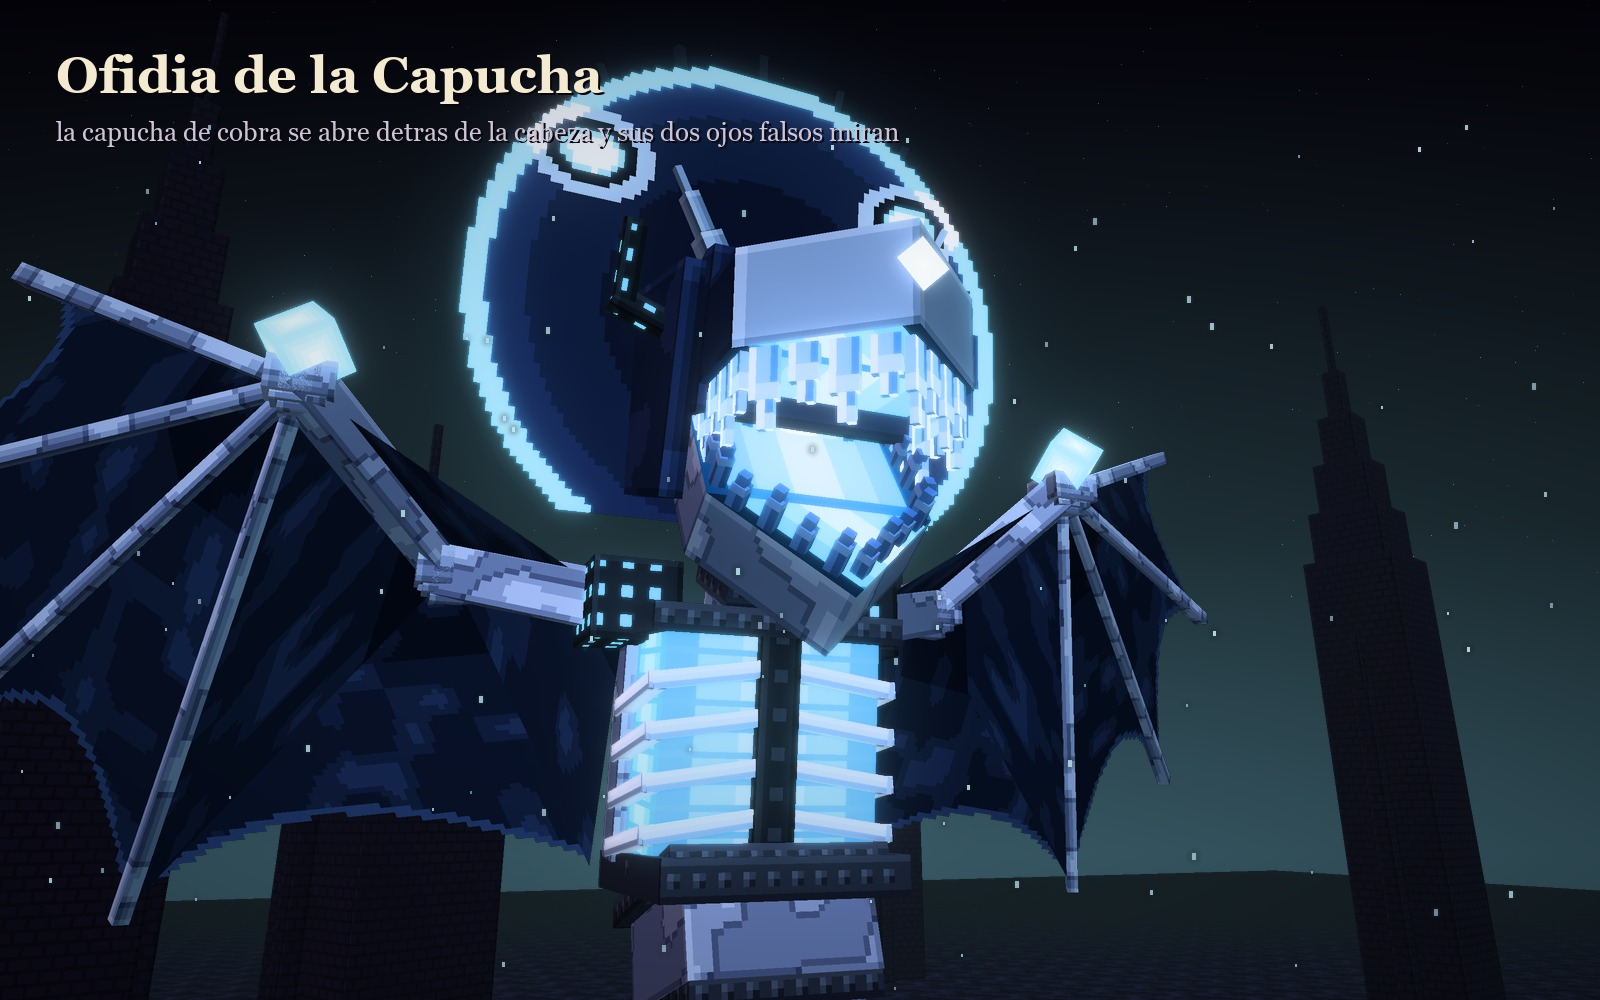
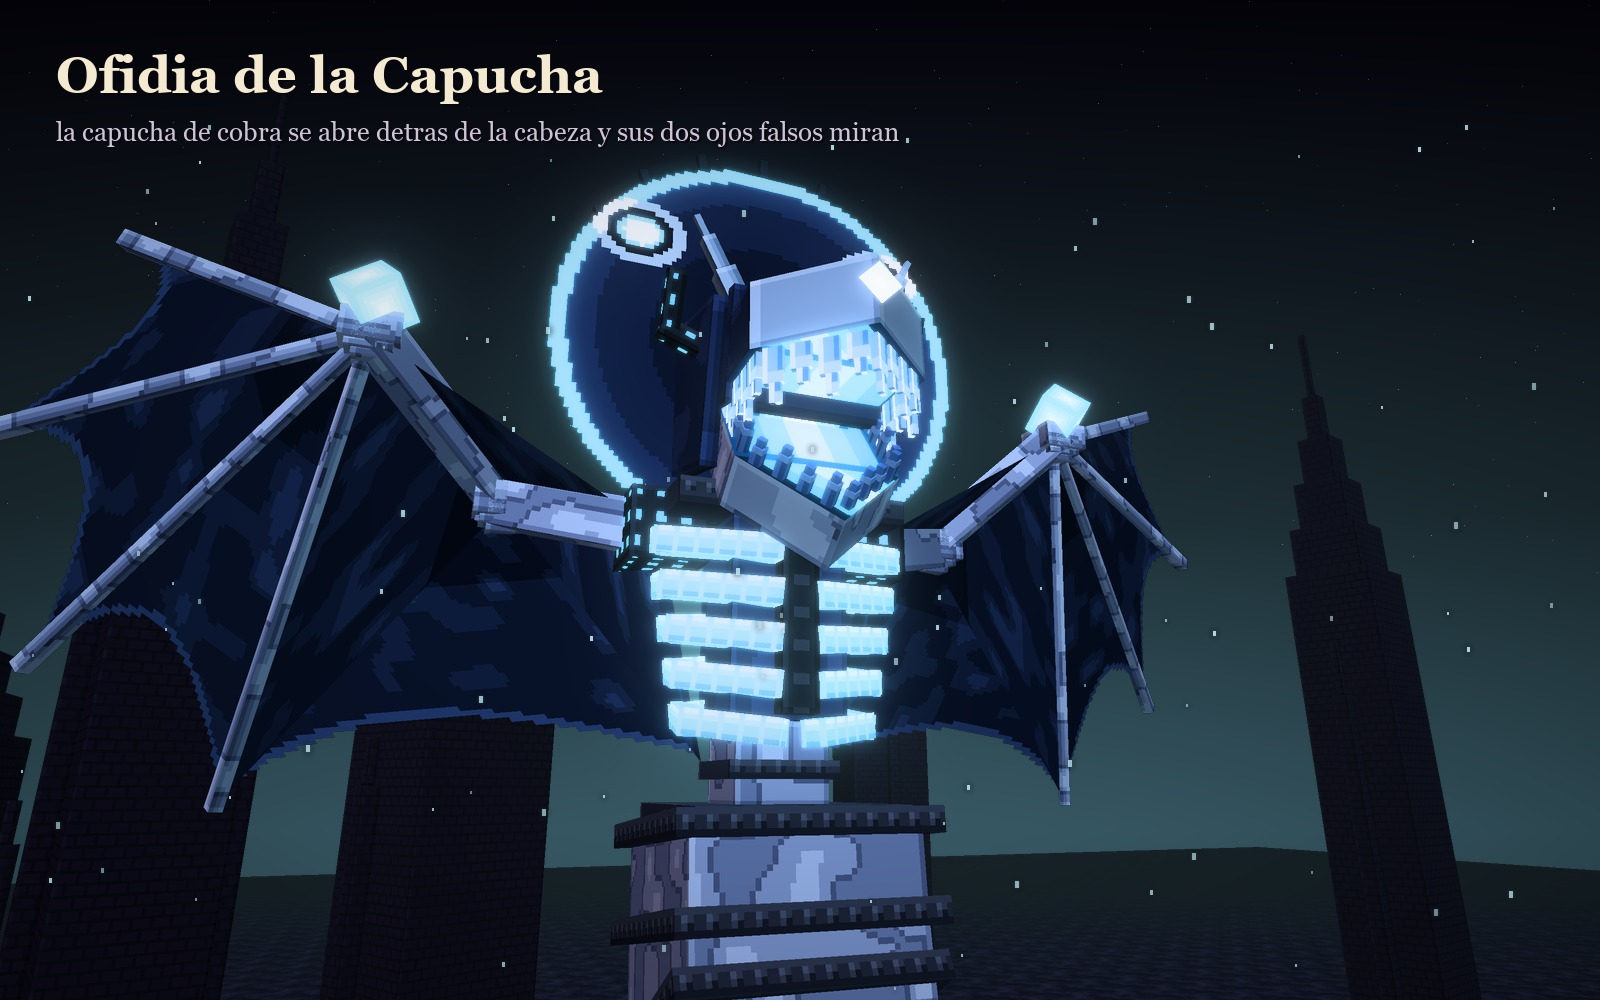
Ofidia sheet: body proportions and a ribs-only chest
Rebuilt Ofidia's body to the proportions measured on the side flight
shot Juan sent. From bottom to top: the red fin, the thin tail with
its forward knee, the hips (two fat marble drums, the widest part),
the belt, a narrow waist and, higher up, the chest, with the head
sitting right on top with almost no neck.

The chest now shows only ribs: five pairs of thick glowing pink ribs
with a white top edge and dark gaps between them, opening wider toward
the top, with the spine behind, a dark sternum in front and a dark
interior instead of the filled pink box. The side lures hang down to
the chest, the head is a bit smaller and the wings start at the new
shoulders.

diff --git a/materiales/generadores/ofidia_modelo.py b/materiales/generadores/ofidia_modelo.py
@@ -13,8 +13,12 @@ bien su portada».
       cinturones granates con remaches, que cuelga del cinturon de la cintura, hace una ese
       suave y acaba en una aleta roja de hojas en abanico;
     - la cintura: un cinturon con remaches;
-    - el torso: un costillar abierto que brilla rosa por dentro, con costillas blancas y la
-      columna oscura de vertebras grises por delante;
+    - de abajo arriba (medido en la imagen de Juan): la aleta roja (16 %), la cola fina con la
+      rodilla hacia delante (22 %), las caderas, dos tambores gordos mas anchos que el costillar
+      (18 %), el cinturon, la cintura estrecha (6 %) y, mas arriba, el costillar (17 %), que es
+      solo costillas: cinco pares de barras rosas gruesas que brillan, con el canto blanco, que se
+      abren hacia arriba, con huecos oscuros entre ellas, la columna detras y el esternon delante;
+      encima, sin apenas cuello, la cabeza (18 %);
     - dos alas de murcielago: el brazo (codo hacia atras, muneca hacia delante con un cubo rosa
       encendido por pulgar) y cuatro dedos largos en abanico, con la membrana azul noche tendida
       entre ellos y el borde libre en arcos;
@@ -278,14 +282,19 @@ def pintores(V):
     reg('pecho', pecho)
 
     def costilla(tw, th, cara, s):
-        idx = np.full((th, tw), 3)
+        """Una costilla: una barra del neon con el canto de arriba casi blanco y la sombra abajo;
+        brilla entera."""
+        c_n, c_m, c_h = nm._hex(nuc), nm._hex(neo), nm._hex(hon)
+        t = np.zeros((th, tw, 4), np.uint8)
+        t[..., :3] = c_m
+        t[..., 3] = 255
         if th >= 3:
-            idx[0, :] = 4
-            idx[-1, :] = 1
-        if tw >= 3 and cara in ('der', 'izq'):
-            idx[:, -1] = 2
-        tex = _imagen(idx, V['costilla'])
-        return tex, _emis(tex, idx >= 3, 70)
+            t[0, :, :3] = qm._mezcla(c_m, c_n, 0.75)
+            t[1, :, :3] = qm._mezcla(c_m, c_n, 0.4)
+            t[-1, :, :3] = qm._mezcla(c_h, c_m, 0.5)
+        if tw >= 4:
+            t[:, ::4, :3] = qm._mezcla(c_m, c_n, 0.25)
+        return t, _emis(t, np.ones((th, tw), bool), 215)
     reg('costilla', costilla)
 
     def columna(tw, th, cara, s):
@@ -463,21 +472,28 @@ def _jirones(out, a, b, largo, P, semilla=0, vuelo=(0.0, 0.0, 0.0)):
 # ----------------------------------------------------------------------
 #  La cola: tambores de marmol con su cinturon, enroscada en el suelo y alzandose
 # ----------------------------------------------------------------------
-COLA = [(0.0, 12.0, 0.0), (0.0, 9.4, 0.7), (0.0, 6.6, 0.6), (0.0, 4.6, -0.4), (0.0, 3.3, -1.7)]
+COLA = [(0.0, 14.1, 0.0), (0.0, 11.9, 0.2), (0.0, 9.7, 0.6), (0.0, 7.7, 1.7), (0.0, 5.8, 1.3), (0.0, 4.5, -0.1), (0.0, 3.7, -1.3)]
 
 
 def cola(out, V, P):
-    """La cola: tambores de marmol con su cinturon que cuelgan del cinturon de la cintura,
-    hacen una ese suave y acaban en la aleta roja."""
+    """La cola: cuelga del cinturon. Arriba, las caderas: dos tambores gordos, mas anchos que el
+    costillar; luego se estrecha de golpe, hace la rodilla hacia delante y baja fina hasta la
+    aleta roja. Cada tambor lleva su cinturon con remaches."""
     pts = sm._por_longitud(COLA, 1.9)
     marcos = sm._marcos(pts, (0, 0, 1))
-    n = len(marcos)
+    acum = 0.0
     for i, M in enumerate(marcos):
-        t = i / max(n - 1, 1)
-        r = 2.0 - 1.2 * t
         L = float(np.linalg.norm(pts[i + 1] - pts[i]))
+        m = acum + L / 2
+        if m < 5.0:
+            r = 2.65
+        elif m < 6.6:
+            r = 2.65 + (1.0 - 2.65) * (m - 5.0) / 1.6
+        else:
+            r = max(0.62, 1.0 - 0.06 * (m - 6.6))
+        acum += L
         cubo(out, M, -r, -r, -0.15, 2 * r, 2 * r, L + 0.3, P['marmol'], semilla=i)
-        rb = r * 1.16
+        rb = r * 1.14
         cubo(out, M @ vr.T(0, 0, -0.28), -rb, -rb, 0, 2 * rb, 2 * rb, 0.56, P['cinto'], semilla=i)
         if V['clave'] == 'C' and i % 2 == 1:                                    # cadenas que cruzan el tambor
             for s in (1, -1):
@@ -501,6 +517,7 @@ def aleta(out, p, t, P):
         d = d / np.linalg.norm(d)
         Mb = em.marco(p, d, up=(1, 0, 0))
         w = 0.78 - 0.06 * abs(phi) / 20
+        largo *= 1.2
         cubo(out, Mb, -w / 2, -0.09, 0, w, 0.18, largo * 0.72, P['aleta'], semilla=96 + j)
         cubo(out, Mb, -w * 0.3, -0.07, largo * 0.72, w * 0.6, 0.14, largo * 0.28, P['aleta'], semilla=97 + j)
 
@@ -513,36 +530,43 @@ def ofidia(variante='O'):
     P = pintores(V)
     k = V['clave']
     out = []
-    cubo(out, vr.T(0, 10.3, 0.0), -2.6, -0.4, -2.6, 5.2, 0.8, 5.2, P['cinto'], semilla=1)         # el cinturon de la cintura
+    # de abajo arriba: la cola (con las caderas anchas arriba), el cinturon, la cintura estrecha
+    # (solo la columna) y, mas arriba, el costillar de solo costillas
+    cola(out, V, P)
+    cubo(out, vr.T(0, 14.3, 0.0), -2.5, -0.35, -2.5, 5.0, 0.7, 5.0, P['cinto'], semilla=1)        # el cinturon
+    cubo(out, vr.T(0, 14.6, -0.1), -1.15, 0, -1.05, 2.3, 1.9, 2.1, P['marmol'], semilla=2)        # la cintura, estrecha
+    cubo(out, vr.T(0, 15.2, -0.1), -1.35, 0, -1.25, 2.7, 0.42, 2.5, P['cinto'], semilla=3)        # su anillo
+    cubo(out, vr.T(0, 14.6, -1.25), -0.45, 0, -0.3, 0.9, 1.9, 0.6, P['columna'], semilla=2)        # la columna, detras
 
-    # el torso: el costillar abierto, que brilla por dentro
-    Mt = vr.T(0, 12.9, 0.2) @ vr.Rx(6 * D) @ np.diag([1.1, 1.05, 1.1, 1.0])
-    cubo(out, Mt, -2.2, -2.3, -1.1, 4.4, 4.6, 2.3, None, caras={'frente': P['pecho'], 'der': P['pecho'], 'izq': P['pecho'],
-                                                                'arriba': P['pecho'], 'abajo': P['pecho']}, semilla=2)
-    cubo(out, Mt, -2.45, -2.4, -1.75, 4.9, 4.8, 0.85, P['marmol'], semilla=3)                     # la espalda
-    cubo(out, Mt, -0.4, -2.45, 1.0, 0.8, 4.9, 0.5, P['columna'], semilla=4)                       # la columna
-    for j, y in enumerate((1.55, 0.6, -0.35, -1.3)):
-        for s in (1, -1):
-            p0 = punto(Mt, (s * 0.35, y, 1.25))
-            p1 = punto(Mt, (s * 2.35, y - 0.3, 1.25))
-            p2 = punto(Mt, (s * 2.35, y - 0.85, -1.2))
-            viga(out, p0, p1, 0.36, 0.36, P['costilla'], extra=0.12, semilla=5 + j)
-            viga(out, p1, p2, 0.36, 0.36, P['costilla'], extra=0.12, semilla=9 + j)
-    cubo(out, Mt, -2.55, 2.2, -1.75, 5.1, 0.55, 3.3, P['cinto'], semilla=13)                      # el cuello del costillar
+    # el costillar: la columna detras, el esternon delante y cinco pares de costillas gruesas que
+    # se abren hacia arriba (estrecho abajo, ancho arriba), con huecos oscuros entre ellas
+    Mt = vr.T(0, 18.9, 0.0)
+    cubo(out, Mt, -0.55, -2.6, -1.85, 1.1, 5.3, 0.95, P['columna'], semilla=4)                    # la columna
+    cubo(out, Mt, -0.45, -2.3, 1.55, 0.9, 4.8, 0.55, P['columna'], semilla=5)                     # el esternon
+    cubo(out, Mt, -1.45, -2.4, -1.2, 2.9, 4.8, 2.6, P['capucha'], semilla=6)                      # lo de dentro, oscuro
+    for j, y in enumerate((-2.1, -1.05, 0.0, 1.05, 2.1)):
+        a = 1.95 + 0.2 * j                                                                      # media anchura de la costilla
+        for sx in (1, -1):
+            p0 = punto(Mt, (sx * 0.5, y + 0.15, -1.45))
+            p1 = punto(Mt, (sx * a, y - 0.1, -0.8))
+            p2 = punto(Mt, (sx * (a + 0.2), y - 0.35, 0.6))
+            p3 = punto(Mt, (sx * 0.5, y - 0.6, 1.8))
+            for q, (pa, pb) in enumerate(((p0, p1), (p1, p2), (p2, p3))):
+                viga(out, pa, pb, 0.6, 0.6, P['costilla'], extra=0.2, semilla=7 + j + q)
+    cubo(out, Mt, -2.9, 2.45, -1.7, 5.8, 0.6, 3.5, P['cinto'], semilla=13)                        # los hombros
     if k == 'C':                                                                                  # barrotes: el pecho es una celda
-        for x in (-1.6, -0.95, 0.95, 1.6):
-            viga(out, punto(Mt, (x, 2.2, 1.55)), punto(Mt, (x, -2.4, 1.55)), 0.24, 0.24, P['oxido'], semilla=14)
-        for y in (1.1, -1.0):
-            viga(out, punto(Mt, (-2.3, y, 1.6)), punto(Mt, (2.3, y, 1.6)), 0.22, 0.22, P['oxido'], semilla=15)
+        for x in (-1.6, -0.85, 0.85, 1.6):
+            viga(out, punto(Mt, (x, 2.4, 2.25)), punto(Mt, (x, -2.6, 2.25)), 0.24, 0.24, P['oxido'], semilla=14)
+        for y in (1.1, -1.2):
+            viga(out, punto(Mt, (-2.4, y, 2.3)), punto(Mt, (2.4, y, 2.3)), 0.22, 0.22, P['oxido'], semilla=15)
 
-    # las dos alas, abiertas a los lados
+    # las dos alas, abiertas a los lados, desde los hombros
     for s in (1, -1):
-        ala(out, s, V, P)
+        ala(out, s, V, P, dy=5.2)
 
-    # el cuello y la cabeza
-    viga(out, np.array((0, 15.2, 0.3)), np.array((0, 18.0, 1.6)), 2.0, 2.0, P['marmol'], extra=0.3, semilla=40)
-    cubo(out, em.marco(np.array((0, 16.4, 0.85)), (0, 2.8, 1.3)), -1.2, -1.2, -0.3, 2.4, 2.4, 0.6, P['cinto'], semilla=41)
-    Mh = em.marco(np.array((0.0, 20.0, 3.0)), (0.0, -0.3, 1.0)) @ np.diag([1.25, 1.25, 1.25, 1.0])
+    # el cuello, corto, y la cabeza justo encima del costillar
+    viga(out, np.array((0, 21.5, 0.0)), np.array((0, 22.9, 0.9)), 1.8, 1.8, P['marmol'], extra=0.3, semilla=40)
+    Mh = em.marco(np.array((0.0, 24.2, 2.0)), (0.0, -0.2, 1.0)) @ np.diag([1.05, 1.05, 1.05, 1.0])
     cabeza(out, Mh, V, P)
     if k == 'O':
         _corona_original(out, Mh, P)
@@ -552,11 +576,7 @@ def ofidia(variante='O'):
         _corona_faroles(out, Mh, P)
     else:
         _corona_encadenada(out, Mh, P)
-    # flota: todo lo de arriba sube y la cola cuelga hasta la aleta, sin tocar el suelo
-    sube = vr.T(0, 2.0, 0)
-    out = qm.transformar(out, sube)
-    cola(out, V, P)
-    return out, {'cabeza': sube @ Mh}
+    return out, {'cabeza': Mh}
 
 
 def _pano(out, raiz, a, b, pintor, semilla=0):
@@ -565,18 +585,19 @@ def _pano(out, raiz, a, b, pintor, semilla=0):
     lamina(out, (raiz, raiz, b, a), pintor, float(np.linalg.norm(b - a)), float(np.linalg.norm((a + b) / 2 - raiz)), semilla)
 
 
-def ala(out, s, V, P):
+def ala(out, s, V, P, dy=0.0):
     """Un ala de murcielago: el brazo (hombro, codo hacia atras y muneca hacia delante, con el
     cubo encendido por pulgar) y cuatro dedos largos que se abren en abanico desde la muneca; la
     membrana va tendida entre los dedos, con el borde libre en arcos, y del ultimo dedo baja
     hasta el costado."""
     k = V['clave']
-    hombro = np.array((s * 2.7, 16.0, -0.8))
-    codo = np.array((s * 6.4, 17.0, -3.2))
-    muneca = np.array((s * 10.0, 20.4, -1.2))
-    dedos = [np.array((s * 16.0, 23.0, -3.6)), np.array((s * 18.6, 18.0, -5.2)), np.array((s * 16.8, 12.6, -5.8)),
-             np.array((s * 12.2, 9.4, -5.0))]
-    costado = np.array((s * 3.0, 10.4, -1.8))
+    sube = np.array((0.0, dy, 0.0))
+    hombro = np.array((s * 2.7, 16.0, -0.8)) + sube
+    codo = np.array((s * 6.4, 17.0, -3.2)) + sube
+    muneca = np.array((s * 10.0, 20.4, -1.2)) + sube
+    dedos = [np.array((s * 16.0, 23.0, -3.6)) + sube, np.array((s * 18.6, 18.0, -5.2)) + sube,
+             np.array((s * 16.8, 12.6, -5.8)) + sube, np.array((s * 12.2, 9.4, -5.0)) + sube]
+    costado = np.array((s * 1.4, 15.6, -1.0))
     cubo(out, vr.T(*hombro), -1.0, -0.9, -1.1, 2.0, 1.8, 2.2, P['gancho'], semilla=20)            # el hombro, con remaches
     viga(out, hombro, codo, 1.35, 1.3, P['marmol'], extra=0.3, semilla=21)
     viga(out, codo, muneca, 1.1, 1.05, P['marmol'], extra=0.28, semilla=22)
@@ -755,7 +776,7 @@ def _cebos(out, Mh, P, tope, final=None):
                     afina=0.06)]
     for s in (1, -1):
         base = punto(Mh, (s * 2.1, 1.1, -1.4))
-        puntas.append(_ruta(out, base, ((s * 1.3, 0.5, -0.2), (s * 0.5, 0.1, -2.4), (s * 0.2, -1.8, -0.4)), Mh, 0.36, P['vara'],
+        puntas.append(_ruta(out, base, ((s * 1.5, 0.5, -0.2), (s * 0.7, 0.1, -1.6), (s * 0.15, -6.4, 0.4)), Mh, 0.36, P['vara'],
                             semilla=66 + (s > 0) * 3, afina=0.06))
     for j, p in enumerate(puntas):
         lado = 1.45 if j == 0 else 1.25
@@ -814,7 +835,7 @@ def _corona_faroles(out, Mh, P):
     # los cebos de los lados tambien son faroles
     for s in (1, -1):
         base = punto(Mh, (s * 2.1, 1.1, -1.4))
-        p = _ruta(out, base, ((s * 1.3, 0.5, -0.2), (s * 0.5, 0.1, -2.4), (s * 0.2, -1.4, -0.4)), Mh, 0.36, P['vara'],
+        p = _ruta(out, base, ((s * 1.5, 0.5, -0.2), (s * 0.7, 0.1, -1.6), (s * 0.15, -6.0, 0.4)), Mh, 0.36, P['vara'],
                   semilla=98, afina=0.06)
         farol(out, p + np.array((0, -0.2, 0)), P, semilla=99, g=0.6)
 

diff --git a/materiales/generadores/ofidia_escenas.py b/materiales/generadores/ofidia_escenas.py
@@ -171,7 +171,7 @@ def guardar(img, nombre):
 
 NOMBRE = {'O': 'Ofidia, la original (estudio)', 'A': 'Ofidia de la Capucha', 'B': 'Ofidia de los Faroles', 'C': 'Ofidia Encadenada'}
 SUB_HEROE = {
-    'O': 'flota: costillar abierto, alas de murcielago, boca de dos mitades y la cola hasta la aleta roja',
+    'O': 'flota: cola fina hasta la aleta, caderas, cintura estrecha, costillar de solo costillas y alas de murcielago',
     'A': 'el mismo cuerpo; la capucha se abre en una capucha de cobra con dos ojos falsos; azul hielo',
     'B': 'el mismo cuerpo; los cebos son faroles con almas: en la cabeza, a los lados y en las alas',
     'C': 'el mismo cuerpo, encadenado: grilletes en las alas, barrotes en el pecho, bozal roto y cuernos',
@@ -182,8 +182,8 @@ SUB_CABEZA = {
     'B': 'de cada varilla cuelga un farol con un alma dentro',
     'C': 'el bozal se le ha roto por delante y la mandibula ha quedado libre',
 }
-CAMARA_HEROE = ((7.0, 4.0, 30.0), (0.0, 15.2, 0.0), 62)
-CAMARA_CABEZA = ((-8.0, 13.5, 22.0), (0.0, 19.8, 3.0), 52)
+CAMARA_HEROE = ((7.0, 4.5, 33.0), (0.0, 15.6, 0.0), 62)
+CAMARA_CABEZA = ((-8.0, 15.0, 22.0), (0.0, 21.6, 2.0), 56)
 
 
 def escena(cual, camara, nombre, sub, n_motas):
@@ -268,9 +268,9 @@ def materiales():
     guardar(img, 'materiales')
 
 
-CAMARA_CARTEL = ((-9.0, 10.0, 25.0), (0.0, 18.6, 2.0), 46)
-CAMARA_FRENTE = ((0.0, 16.0, 24.0), (0.0, 19.4, 3.0), 44)
-CAMARA_LADO = ((-52.0, 15.0, 2.0), (0.0, 15.5, 1.5), 44)
+CAMARA_CARTEL = ((-9.0, 12.5, 25.0), (0.0, 21.2, 2.0), 46)
+CAMARA_FRENTE = ((0.0, 16.0, 30.0), (0.0, 19.5, 2.0), 52)
+CAMARA_LADO = ((-54.0, 15.5, 2.0), (0.0, 15.5, 1.0), 44)
 
 
 def cartel(cual):

diff --git a/materiales/fichas/ofidia/LEEME.md b/materiales/fichas/ofidia/LEEME.md
@@ -5,7 +5,7 @@ Eufonia Studio. Su cartel oficial está en
 https://x.com/dedsafio/status/2109039127597560179.
 
 Juan pidió el 12-10-2026 recrearla igual y hacerle variantes propias, «para no copiarla
-como tal». Hicieron falta seis versiones:
+como tal». Hicieron falta siete versiones:
 
 1. La primera no se parecía: «fíjate bien cómo es Ofidia… date tu tiempo, investiga
    más».
@@ -20,10 +20,13 @@ como tal». Hicieron falta seis versiones:
 5. La quinta hizo las mandíbulas como cuñas y las alas de murciélago, pero Juan mandó una
    imagen de Ofidia volando de lado: «la mandíbula superior e inferior… y mira bien su
    anatomía de Ofidia, no es como me presentas».
-6. Esta sexta corrige la anatomía con esa imagen: flota erguida y la cola cuelga hasta una
-   aleta roja. Las dos mandíbulas son medio rectángulo y medio triángulo, como en la
-   portada y en los primeros planos del directo. Se comprobó de frente, de tres cuartos y
-   de lado.
+6. La sexta corrigió la anatomía con esa imagen: flota erguida y la cola cuelga hasta una
+   aleta roja; y las dos mandíbulas son medio rectángulo y medio triángulo, como en la
+   portada y en los primeros planos del directo.
+7. Esta séptima ajusta las proporciones: «mejora la proporción del cuerpo, que debería ser
+   primero pequeño y luego subir un poco más; en el pecho, solo mostrando sus costillas».
+   Las proporciones se midieron en la imagen de Juan. Se comprobó de frente, de tres cuartos
+   y de lado.
 
 **La original es solo para estudiarla; no va al mod.** Las candidatas son las tres
 variantes. A Juan le gustó la Encadenada.
@@ -43,11 +46,16 @@ Las fuentes son cinco:
 En la forma de monstruo se ve:
 
 - **Flota erguida**, como una sirena; no se apoya en el suelo.
-- **La cola**: tambores de mármol azul con cinturones granates con remaches, que cuelgan
-  del cinturón de la cintura, hacen una ese suave y acaban en una aleta roja de hojas en
-  abanico.
-- **El torso**: un costillar abierto que brilla rosa por dentro. Las costillas son
-  blancas y la columna, oscura con vértebras grises.
+- **Las proporciones**, de abajo arriba, medidas en la imagen de Juan sobre el alto total:
+  - la aleta roja, 16 %;
+  - la cola fina, con la rodilla hacia delante, 22 %;
+  - las caderas, 18 %: dos tambores gordos de mármol con su cinturón, la parte más ancha;
+  - el cinturón y la cintura estrecha, 10 %;
+  - el pecho, más arriba, 17 %;
+  - la cabeza, casi sin cuello, 18 %.
+- **El pecho es solo costillas**: cinco pares de costillas rosas gruesas que brillan, con
+  el canto blanco y huecos oscuros entre ellas. Se abren hacia arriba (estrecho abajo,
+  ancho arriba), con la columna detrás y el esternón oscuro delante.
 - **Dos alas de murciélago, no brazos**:
   - el brazo, con el codo hacia atrás y la muñeca hacia delante;
   - un cubo rosa encendido en la muñeca, que hace de pulgar;
